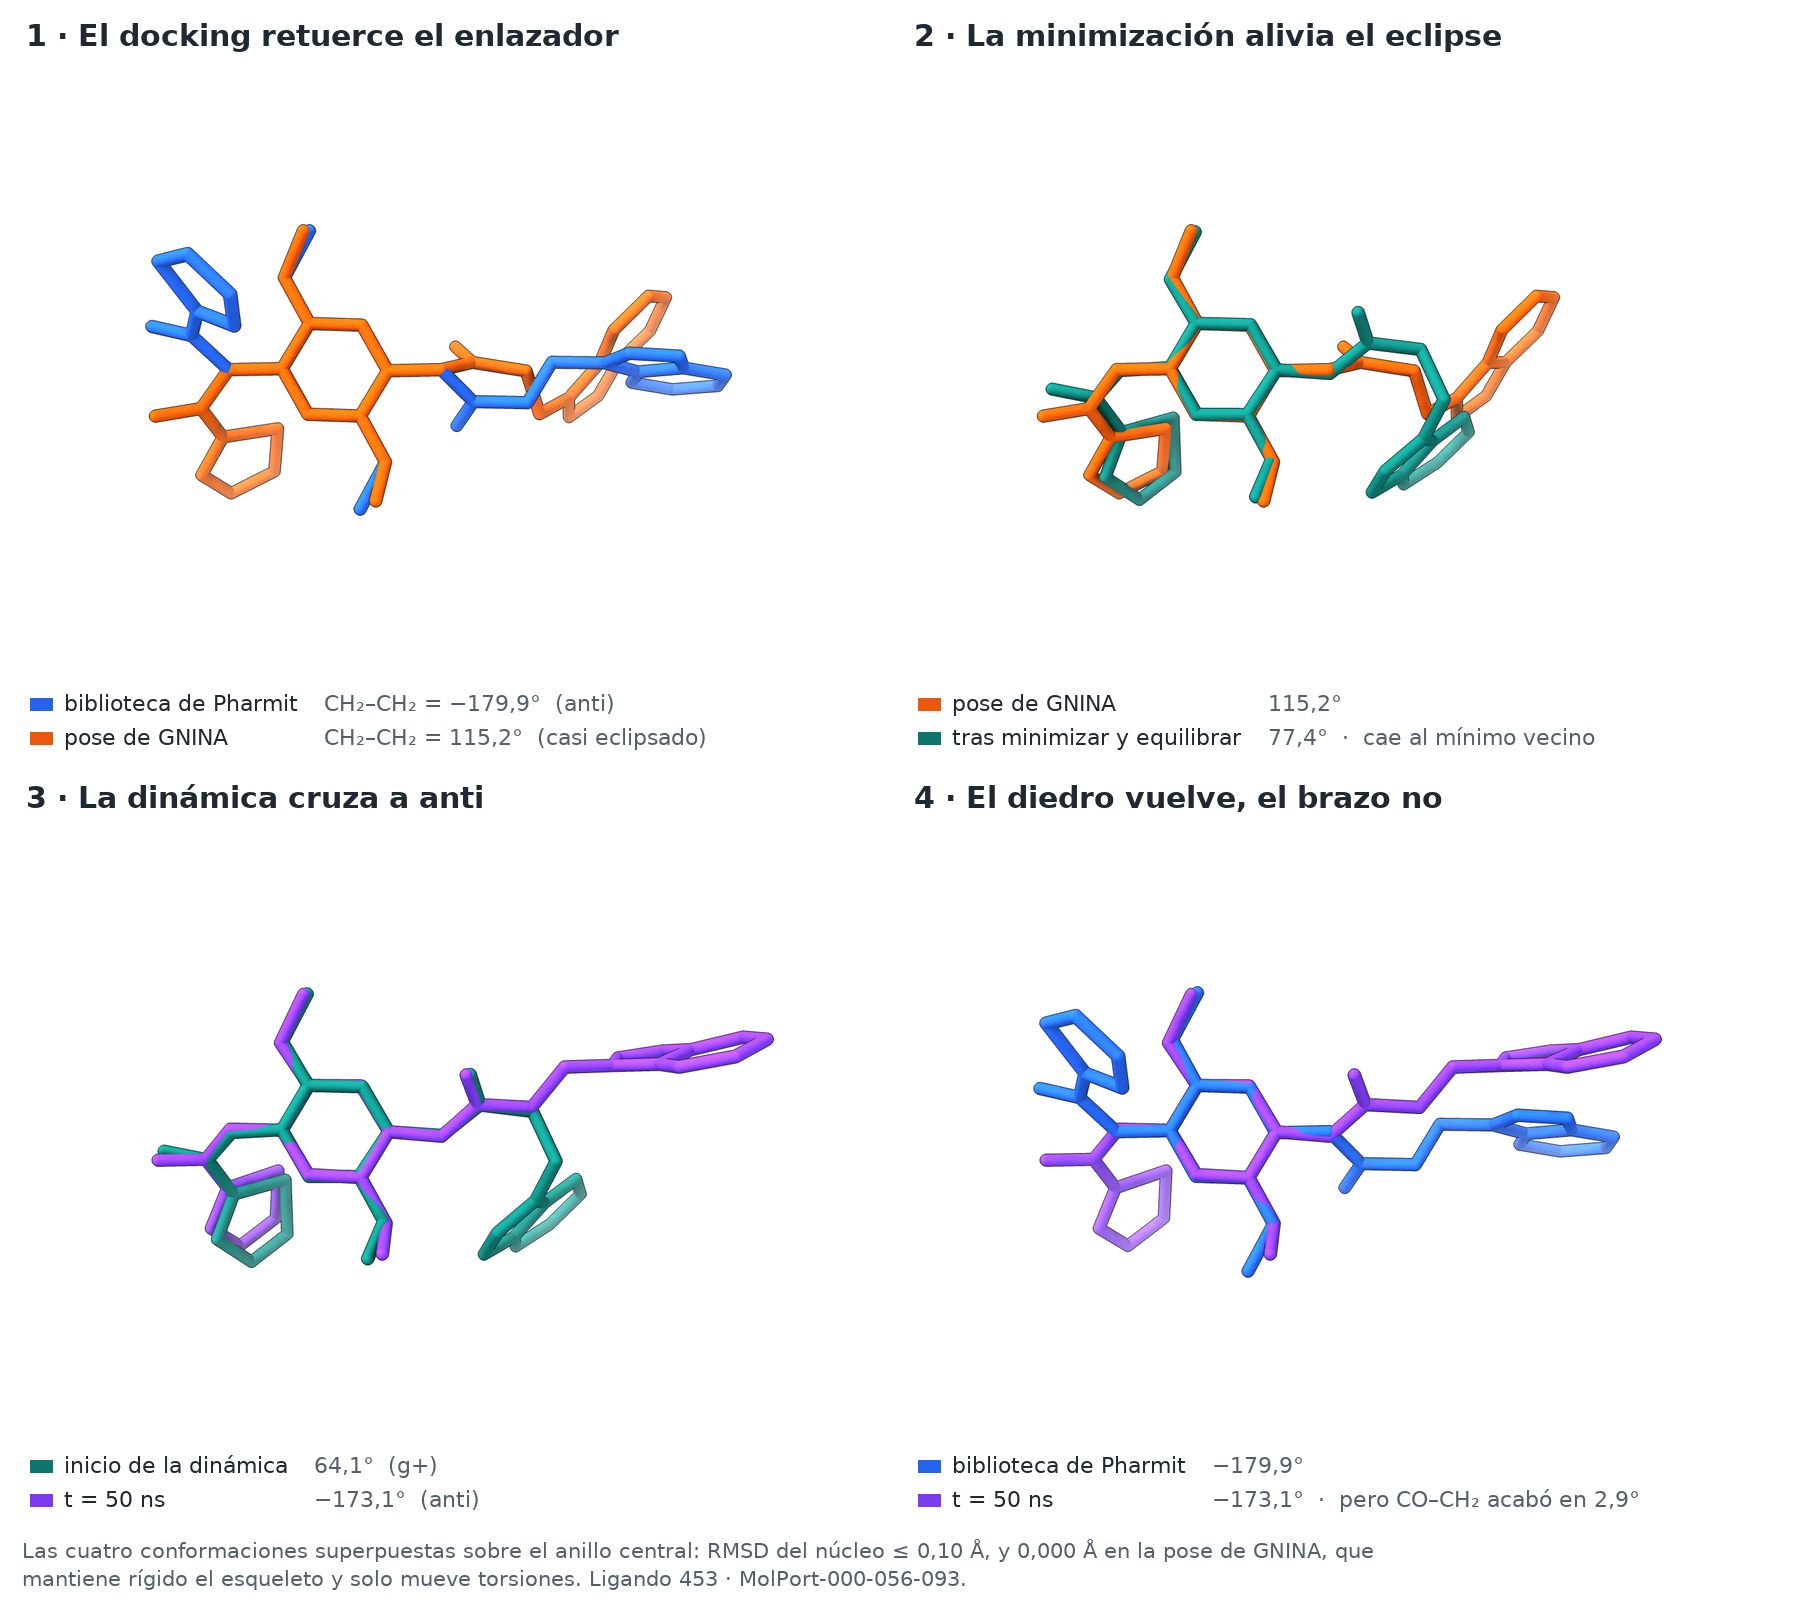
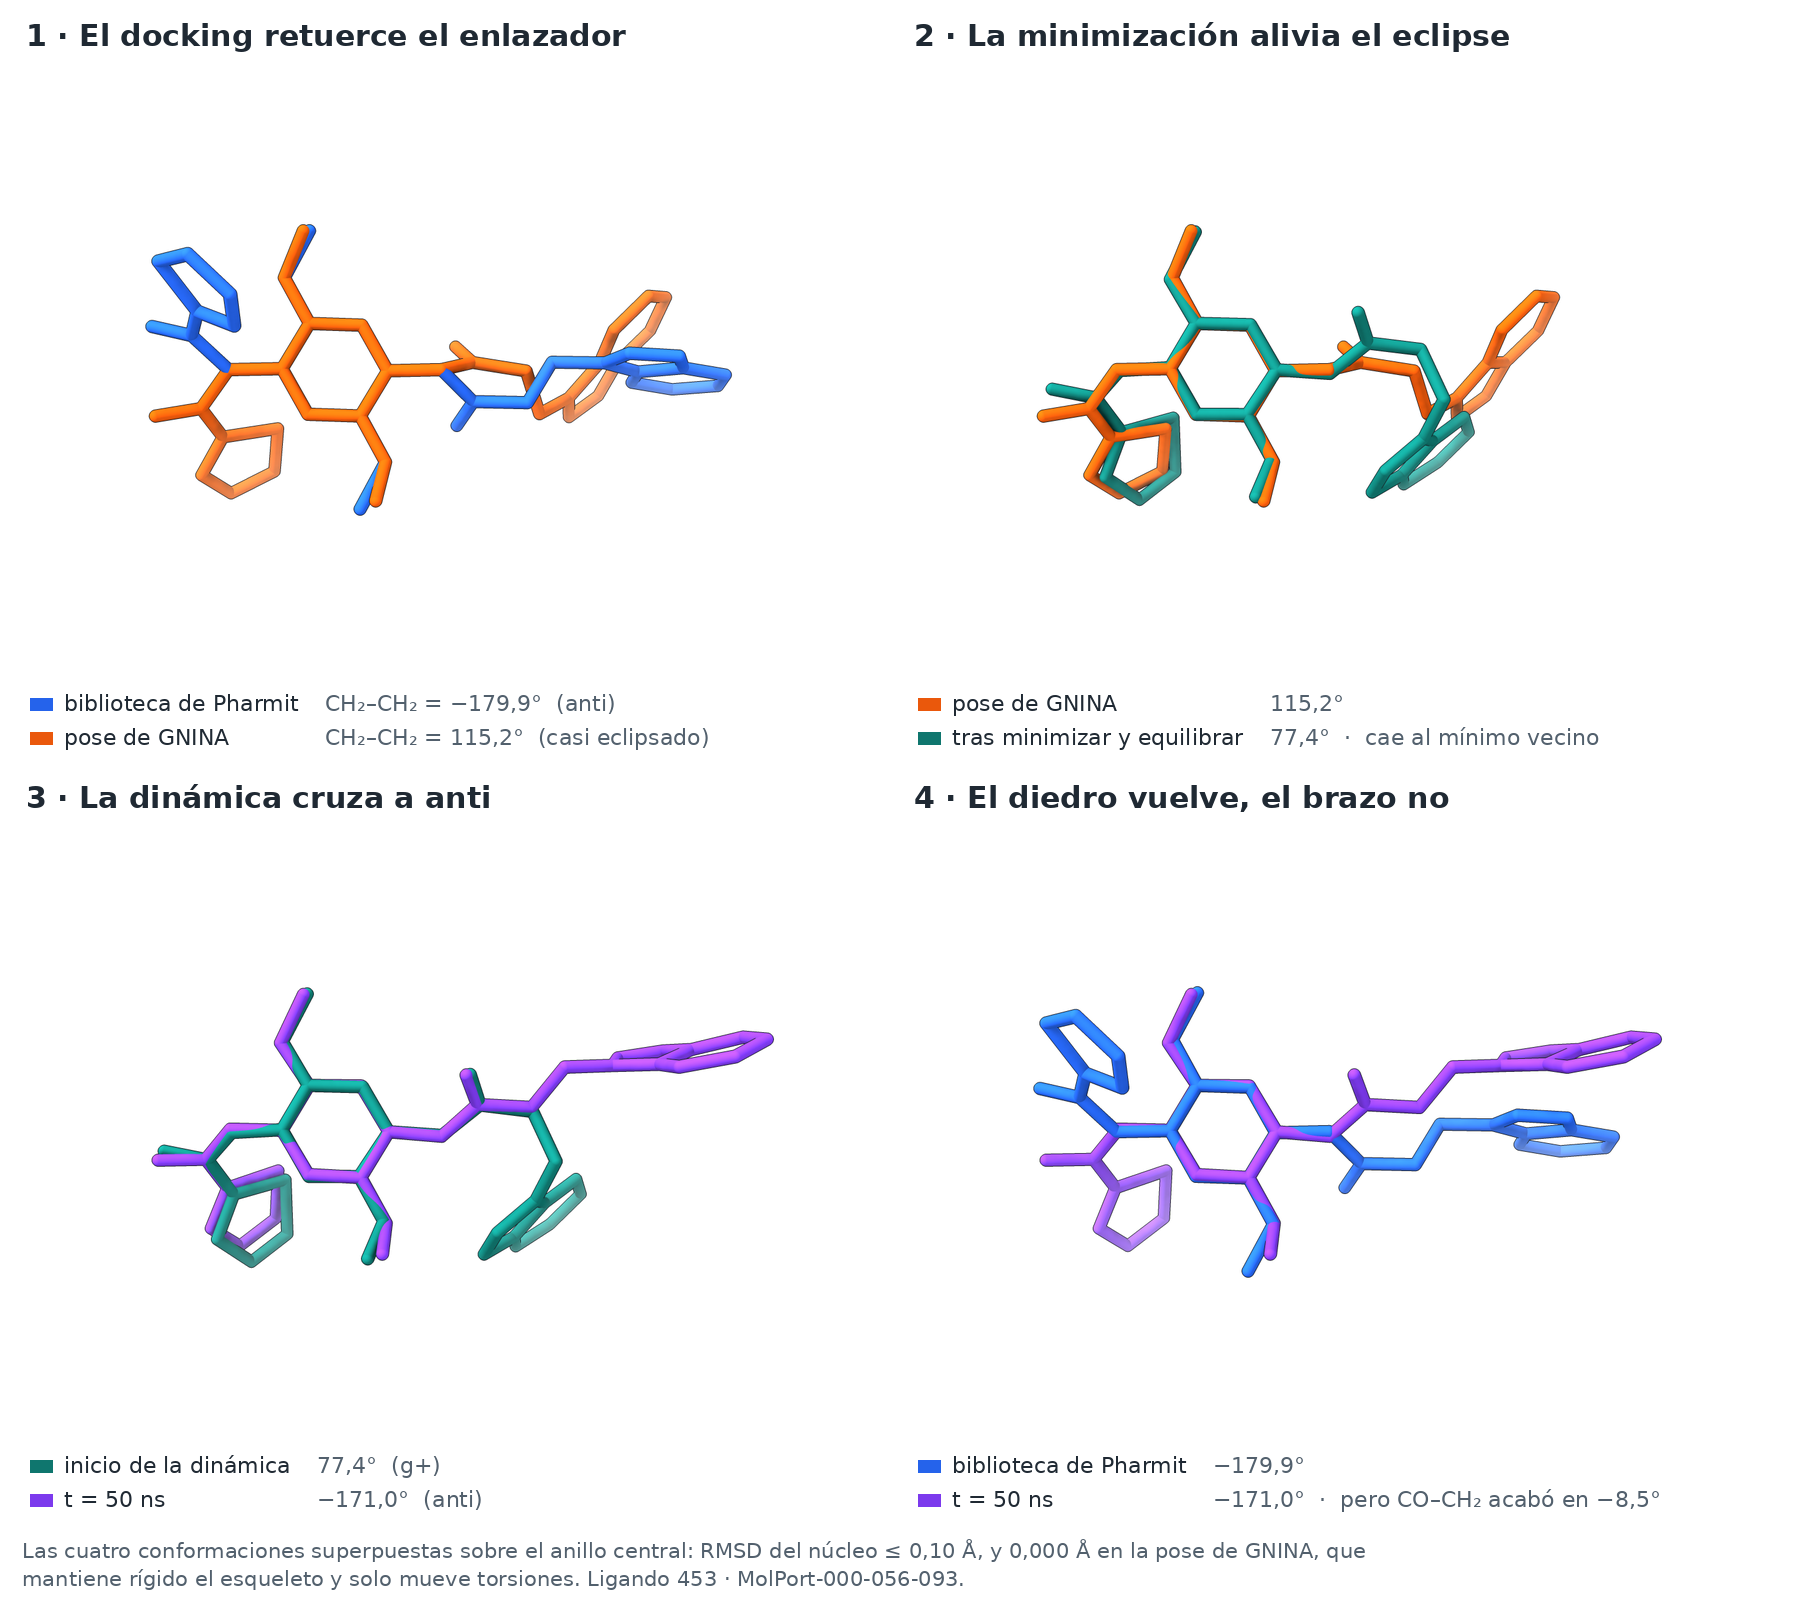
Corrige dos etiquetas de la figura de conformeros
El panel 3 daba 64,1 grados para el inicio de la dinamica y el panel 2
daba 77,4 para la misma estructura. El valor correcto es 77,4: 64,2 es la
media circular de la meseta 0-27,5 ns, que no es el valor de ningun
fotograma concreto. Igual con -173,1 (media de 35-50 ns) frente a -171,0
a t = 50 ns, y con el 2,9 del CO-CH2, que a t = 50 ns es -8,5.

Las etiquetas son ahora los valores instantaneos de las estructuras que
se dibujan, con un comentario en el script diciendo por que, para que no
vuelva a mezclarse una media con un fotograma.

diff --git a/scripts/md_analysis/grafica_conformeros.py b/scripts/md_analysis/grafica_conformeros.py
@@ -28,11 +28,16 @@ PANELES = [
      [("pose de GNINA", "#ea580c", "115,2°"),
       ("tras minimizar y equilibrar", "#0f766e", "77,4°  ·  cae al mínimo vecino")]),
     ("par_3_dinamica.png", "3 · La dinámica cruza a anti",
-     [("inicio de la dinámica", "#0f766e", "64,1°  (g+)"),
-      ("t = 50 ns", "#7c3aed", "−173,1°  (anti)")]),
+     [("inicio de la dinámica", "#0f766e", "77,4°  (g+)"),
+      ("t = 50 ns", "#7c3aed", "−171,0°  (anti)")]),
     ("par_4_vuelta.png", "4 · El diedro vuelve, el brazo no",
      [("biblioteca de Pharmit", "#2563eb", "−179,9°"),
-      ("t = 50 ns", "#7c3aed", "−173,1°  ·  pero CO–CH₂ acabó en 2,9°")])]
+      ("t = 50 ns", "#7c3aed", "−171,0°  ·  pero CO–CH₂ acabó en −8,5°")])]
+
+# Los valores son los de las estructuras que se dibujan, instantaneos. Una
+# version anterior etiquetaba aqui las medias circulares de las dos mesetas
+# (64,2° y -172,1°), que no son el valor de ningun fotograma concreto: el panel
+# 2 y el 3 ensenan la misma estructura y la daban con dos numeros distintos.
 
 NOTA = textwrap.fill(
     "Las cuatro conformaciones superpuestas sobre el anillo central: RMSD del "
